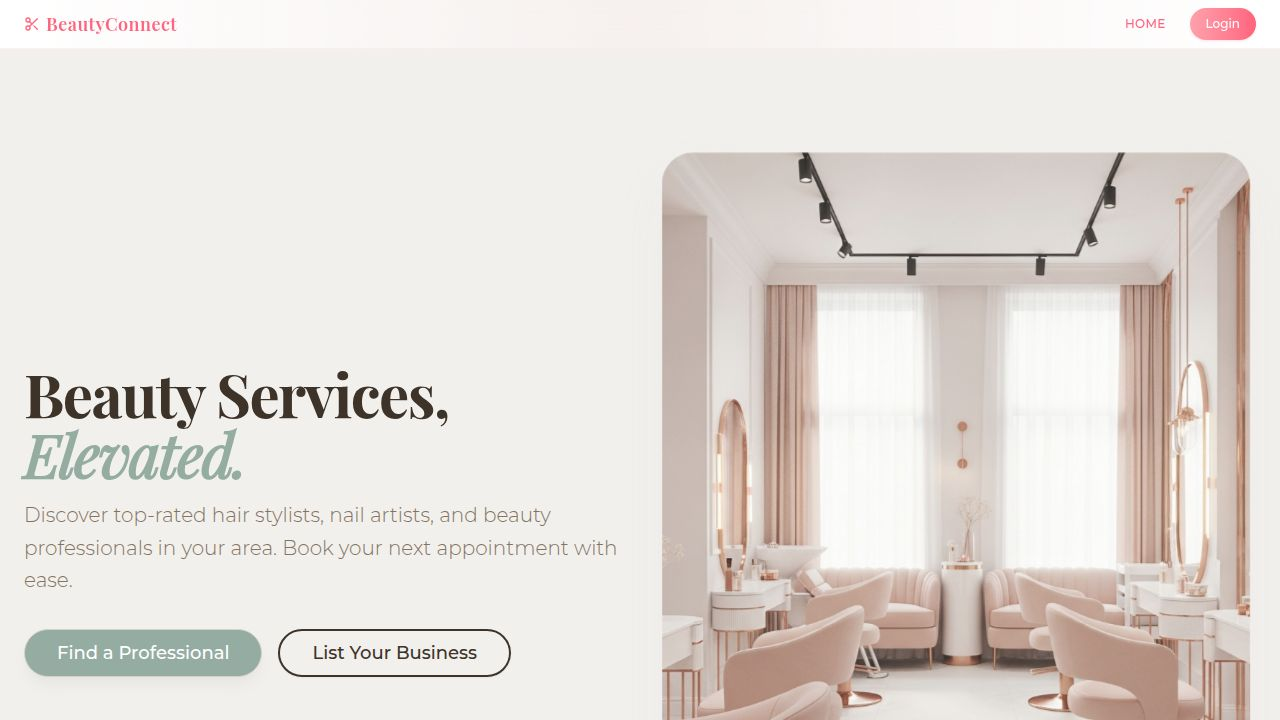
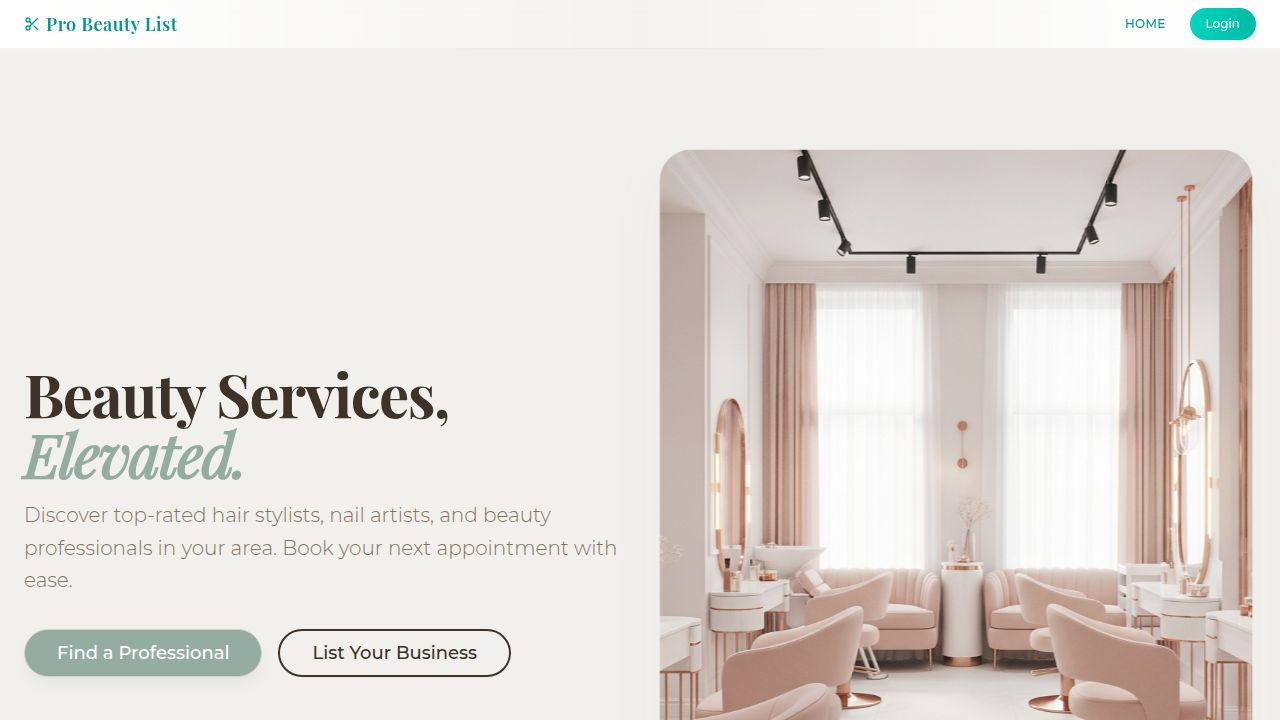
Update subscription tier names and their associated marketing copy
Modify display names for subscription tiers from "Bronze, Silver, Gold" to "Sm-Med Business, Pro, Pro Premier 👑" across client-side mock data, feature comparisons, and UI text in Home, BusinessAnalytics, MyBusinesses, and SocialSharing components.

Replit-Commit-Author: Agent
Replit-Commit-Session-Id: 8f74d6d3-f190-42ab-8d2c-fc08a7e75e3f
Replit-Commit-Checkpoint-Type: full_checkpoint
Replit-Commit-Event-Id: bd332565-b1f5-4106-a231-c9ee632cb696
Replit-Commit-Screenshot-Url: https://storage.googleapis.com/screenshot-production-us-central1/6916b62e-c427-4971-b354-a0143b730342/8f74d6d3-f190-42ab-8d2c-fc08a7e75e3f/PQ7mlxM
Replit-Helium-Checkpoint-Created: true

diff --git a/client/src/lib/mock-data.ts b/client/src/lib/mock-data.ts
@@ -50,7 +50,7 @@ export const PLANS = [
   },
   {
     id: 'bronze',
-    name: 'Bronze',
+    name: 'Sm-Med Business',
     price: '$0.99',
     priceValue: 0.99,
     description: 'Great for growing businesses',
@@ -78,12 +78,12 @@ export const PLANS = [
   },
   {
     id: 'silver',
-    name: 'Silver',
+    name: 'Pro',
     price: '$5.00',
     priceValue: 5.00,
     description: 'For established professionals',
     features: [
-      'Everything in Bronze',
+      'Everything in Sm-Med Business',
       'Unlimited Portfolio',
       'Top of Search Results',
     ],
@@ -98,12 +98,12 @@ export const PLANS = [
   },
   {
     id: 'gold',
-    name: 'Gold',
+    name: 'Pro Premier 👑',
     price: '$20.00',
     priceValue: 20.00,
     description: 'Premium features for top performers',
     features: [
-      'Everything in Silver',
+      'Everything in Pro',
       'Smart Rebooking',
       'Automated Follow-ups',
       'Social Media Integration',
@@ -151,18 +151,18 @@ export const FEATURE_COMPARISON = [
     { name: 'Staff Management', free: false, bronze: true, silver: true, gold: true },
     { name: 'Online Gift Cards', free: false, bronze: true, silver: true, gold: true },
   ]},
-  { category: 'Automation (Gold Only)', features: [
+  { category: 'Automation (Pro Premier Only)', features: [
     { name: 'Smart Rebooking', free: false, bronze: false, silver: false, gold: true },
     { name: 'Automated Follow-ups', free: false, bronze: false, silver: false, gold: true },
     { name: 'Social Media Integration', free: false, bronze: false, silver: false, gold: true },
   ]},
-  { category: 'Analytics & Growth (Gold Only)', features: [
+  { category: 'Analytics & Growth (Pro Premier Only)', features: [
     { name: 'Expense Tracking & Profit', free: false, bronze: false, silver: false, gold: true },
     { name: 'Business Analytics Dashboard', free: false, bronze: false, silver: false, gold: true },
     { name: 'Loyalty & Referral Program', free: false, bronze: false, silver: false, gold: true },
     { name: 'AI Growth Insights', free: false, bronze: false, silver: false, gold: true },
   ]},
-  { category: 'Premium Perks (Gold Only)', features: [
+  { category: 'Premium Perks (Pro Premier Only)', features: [
     { name: 'VIP Spotlight Placement', free: false, bronze: false, silver: false, gold: true },
     { name: 'Priority Booking Experience', free: false, bronze: false, silver: false, gold: true },
   ]},

diff --git a/client/src/pages/Home.tsx b/client/src/pages/Home.tsx
@@ -237,7 +237,7 @@ export default function Home() {
             </div>
             <h2 className="text-3xl font-bold tracking-tight sm:text-4xl font-serif mt-2">Featured Professionals</h2>
             <p className="text-muted-foreground max-w-2xl mx-auto mt-4">
-              Our top-rated Gold tier professionals offering exceptional service and premium experiences.
+              Our top-rated Pro Premier tier professionals offering exceptional service and premium experiences.
             </p>
           </motion.div>
 
@@ -260,7 +260,7 @@ export default function Home() {
                       />
                       <div className="absolute top-3 right-3 bg-gradient-to-r from-yellow-400 via-amber-400 to-yellow-500 text-white text-xs font-bold px-3 py-1.5 rounded-full shadow-lg flex items-center gap-1.5">
                         <Crown className="w-3.5 h-3.5" />
-                        <span>GOLD</span>
+                        <span>PRO PREMIER</span>
                       </div>
                       <div className="absolute inset-0 bg-gradient-to-t from-black/40 to-transparent opacity-0 group-hover:opacity-100 transition-opacity duration-300" />
                     </div>
@@ -481,9 +481,9 @@ export default function Home() {
                   <tr className="border-b-2 border-stone-200">
                     <th className="text-left py-4 px-4 font-semibold text-gray-700">Feature</th>
                     <th className="text-center py-4 px-4 font-semibold text-gray-700">Starter<br/><span className="text-sm font-normal text-muted-foreground">Free</span></th>
-                    <th className="text-center py-4 px-4 font-semibold text-gray-700">Bronze<br/><span className="text-sm font-normal text-muted-foreground">$0.99/mo</span></th>
-                    <th className="text-center py-4 px-4 font-semibold text-gray-700">Silver<br/><span className="text-sm font-normal text-muted-foreground">$5/mo</span></th>
-                    <th className="text-center py-4 px-4 font-semibold bg-gradient-to-r from-amber-50 to-yellow-50 text-amber-700 rounded-t-lg">Gold<br/><span className="text-sm font-normal text-amber-600">$20/mo</span></th>
+                    <th className="text-center py-4 px-4 font-semibold text-gray-700">Sm-Med Business<br/><span className="text-sm font-normal text-muted-foreground">$0.99/mo</span></th>
+                    <th className="text-center py-4 px-4 font-semibold text-gray-700">Pro<br/><span className="text-sm font-normal text-muted-foreground">$5/mo</span></th>
+                    <th className="text-center py-4 px-4 font-semibold bg-gradient-to-r from-amber-50 to-yellow-50 text-amber-700 rounded-t-lg">Pro Premier 👑<br/><span className="text-sm font-normal text-amber-600">$20/mo</span></th>
                   </tr>
                 </thead>
                 <tbody>

diff --git a/client/src/pages/SocialSharing.tsx b/client/src/pages/SocialSharing.tsx
@@ -204,15 +204,15 @@ export default function SocialSharing() {
           <Card className="max-w-md mx-auto border-amber-200 bg-gradient-to-br from-amber-50 to-white">
             <CardHeader className="text-center">
               <Crown className="h-12 w-12 text-amber-500 mx-auto mb-2" />
-              <CardTitle className="text-amber-900">Gold Tier Required</CardTitle>
+              <CardTitle className="text-amber-900">Pro Premier Tier Required</CardTitle>
               <CardDescription className="text-amber-700">
-                Social sharing is a premium feature available exclusively for Gold tier businesses.
-                Upgrade to Gold to promote your services on social media.
+                Social sharing is a premium feature available exclusively for Pro Premier tier businesses.
+                Upgrade to Pro Premier to promote your services on social media.
               </CardDescription>
             </CardHeader>
             <CardContent className="text-center">
               <Button onClick={() => setLocation("/my-businesses")} className="bg-amber-500 hover:bg-amber-600">
-                Upgrade to Gold
+                Upgrade to Pro Premier
               </Button>
             </CardContent>
           </Card>
@@ -444,7 +444,7 @@ export default function SocialSharing() {
             <Card className="bg-gradient-to-br from-stone-50 to-white">
               <CardContent className="pt-6 text-center">
                 <Crown className="h-8 w-8 text-amber-500 mx-auto mb-2" />
-                <p className="text-sm font-medium text-gray-900 mb-1">Gold Member Benefit</p>
+                <p className="text-sm font-medium text-gray-900 mb-1">Pro Premier Member Benefit</p>
                 <p className="text-xs text-gray-600">
                   Social sharing helps you reach more clients and fill your appointment book faster.
                 </p>

diff --git a/client/src/pages/BusinessAnalytics.tsx b/client/src/pages/BusinessAnalytics.tsx
@@ -178,9 +178,9 @@ export default function BusinessAnalytics() {
           <Card className="max-w-md mx-auto border-amber-200 bg-gradient-to-br from-amber-50 to-white">
             <CardContent className="pt-6 text-center">
               <Crown className="h-12 w-12 text-amber-500 mx-auto mb-4" />
-              <h2 className="text-xl font-semibold mb-2">Gold Tier Required</h2>
+              <h2 className="text-xl font-semibold mb-2">Pro Premier Tier Required</h2>
               <p className="text-muted-foreground mb-4">
-                Business Intelligence Dashboard is an exclusive feature for Gold tier businesses.
+                Business Intelligence Dashboard is an exclusive feature for Pro Premier tier businesses.
                 Upgrade to unlock powerful analytics and insights.
               </p>
               <Button 
@@ -188,7 +188,7 @@ export default function BusinessAnalytics() {
                 className="bg-gradient-to-r from-amber-500 to-amber-600 hover:from-amber-600 hover:to-amber-700"
                 data-testid="button-upgrade-gold"
               >
-                Upgrade to Gold
+                Upgrade to Pro Premier
               </Button>
             </CardContent>
           </Card>
@@ -210,7 +210,7 @@ export default function BusinessAnalytics() {
         <div className="flex flex-col md:flex-row md:items-center md:justify-between gap-4 mb-8">
           <div>
             <h1 className="text-2xl font-bold text-gray-900" data-testid="text-analytics-title">Business Intelligence</h1>
-            <p className="text-muted-foreground">Insights and analytics for your Gold tier business</p>
+            <p className="text-muted-foreground">Insights and analytics for your Pro Premier tier business</p>
           </div>
           
           {goldBusinesses.length > 1 && (

diff --git a/client/src/pages/MyBusinesses.tsx b/client/src/pages/MyBusinesses.tsx
@@ -99,7 +99,7 @@ function BusinessCard({ business }: { business: Business }) {
           {business.tier === 'gold' && (
             <Badge className="bg-yellow-500 text-white" data-testid={`badge-gold-${business.id}`}>
               <Crown className="h-3 w-3 mr-1" />
-              Gold
+              Pro Premier 👑
             </Badge>
           )}
         </CardTitle>